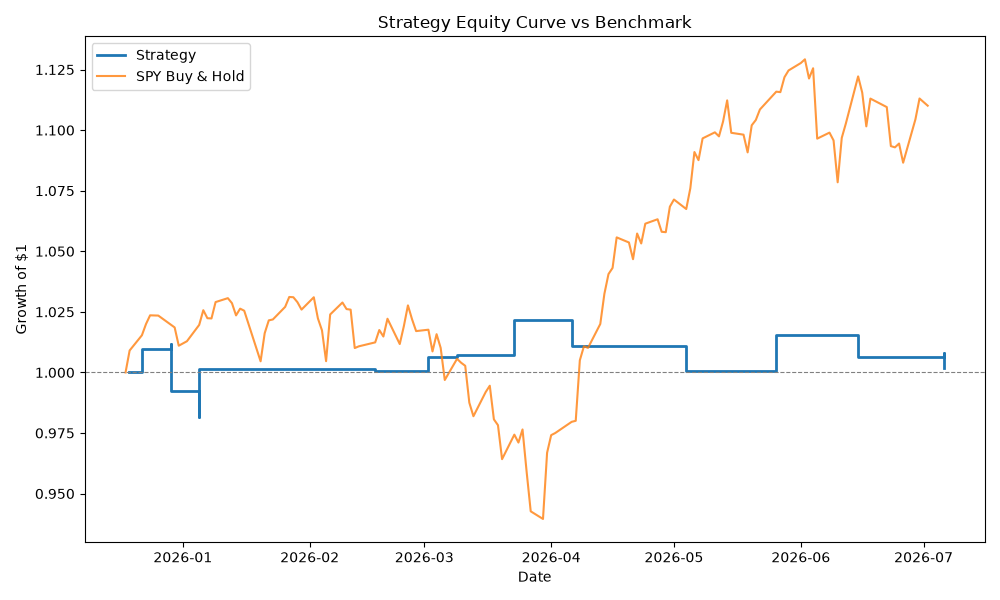
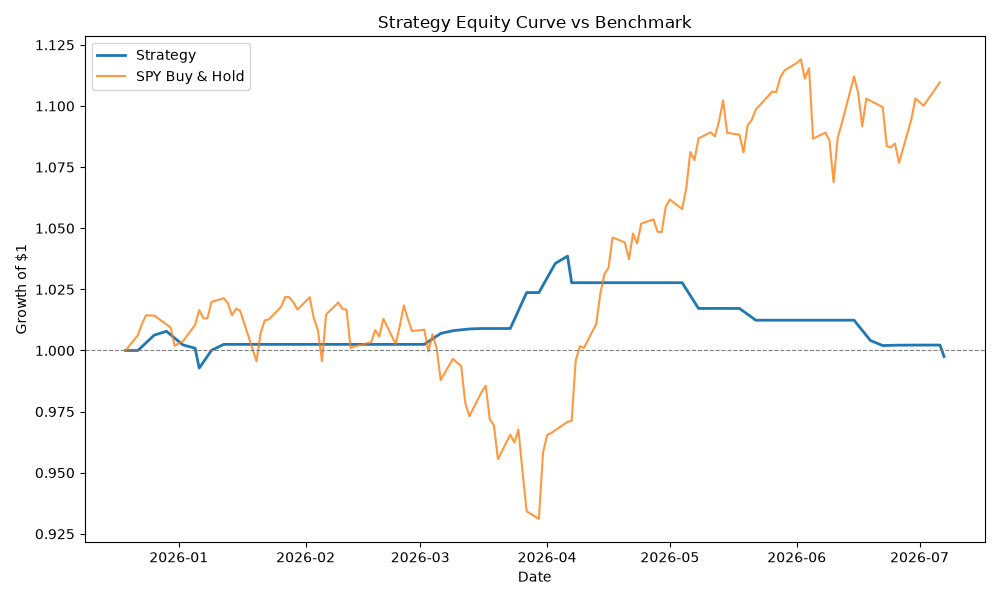
Fix portfolio-level accounting to sum overlapping trades instead of concatenating sequentially

diff --git a/backtest.py b/backtest.py
@@ -7,7 +7,6 @@ import yfinance as yf
 from dotenv import load_dotenv
 import os
 import math
-import statistics
 import pandas as pd
 import matplotlib
 matplotlib.use('Agg')
@@ -90,43 +89,41 @@ def calculate_trade_return(price_in, price_out, is_bullish, cost_pct):
         effective_out = price_out * (1 + cost_pct)
         return (effective_in - effective_out) / effective_in
 
-def compute_performance_metrics(trade_records, start_date):
-    sorted_trades = sorted(trade_records, key=lambda t: t['date'])
-    weighted_returns = [t['weighted_return'] for t in sorted_trades]
-    dates = [start_date] + [t['date'] for t in sorted_trades]
+def compute_performance_metrics(trade_records, start_date, end_date):
+    # daily, portfolio-level mark-to-market: trades held over the same days must
+    # add up on those days, not queue up one-after-another regardless of overlap.
+    # each trade's total weighted_return is spread evenly across the business days
+    # it was actually open, then every trade open on a given day contributes to
+    # that day's portfolio return.
+    calendar = pd.bdate_range(start=start_date, end=end_date)
+    daily_returns = pd.Series(0.0, index=calendar)
 
-    # compounded equity curve, needed for max drawdown and the plot
-    equity_curve = [1.0]
-    for r in weighted_returns:
-        equity_curve.append(equity_curve[-1] * (1 + r))
+    for t in trade_records:
+        held_days = calendar[(calendar > t['entry_date']) & (calendar <= t['exit_date'])]
+        if len(held_days) == 0:
+            continue
+        daily_returns.loc[held_days] += t['weighted_return'] / len(held_days)
 
-    peak = equity_curve[0]
-    max_drawdown = 0.0
-    for value in equity_curve:
-        peak = max(peak, value)
-        max_drawdown = min(max_drawdown, (value - peak) / peak)
+    equity_curve = (1 + daily_returns).cumprod()
+    running_peak = equity_curve.cummax()
+    max_drawdown = ((equity_curve - running_peak) / running_peak).min()
 
-    n = len(weighted_returns)
-    mean_return = statistics.mean(weighted_returns)
-    std_return = statistics.pstdev(weighted_returns) if n > 1 else 0.0
+    mean_return = daily_returns.mean()
+    std_return = daily_returns.std(ddof=0)
+    TRADING_DAYS_PER_YEAR = 252
+    sharpe = (mean_return / std_return) * math.sqrt(TRADING_DAYS_PER_YEAR) if std_return > 0 else 0.0
 
-    # annualize using the trade frequency actually observed over the backtest window
-    span_days = max((dates[-1] - start_date).days, 1)
-    periods_per_year = n * 365 / span_days
-
-    sharpe = (mean_return / std_return) * math.sqrt(periods_per_year) if std_return > 0 else 0.0
-
-    downside_returns = [r for r in weighted_returns if r < 0]
-    downside_std = statistics.pstdev(downside_returns) if len(downside_returns) > 1 else 0.0
-    sortino = (mean_return / downside_std) * math.sqrt(periods_per_year) if downside_std > 0 else 0.0
+    downside_returns = daily_returns[daily_returns < 0]
+    downside_std = downside_returns.std(ddof=0) if len(downside_returns) > 1 else 0.0
+    sortino = (mean_return / downside_std) * math.sqrt(TRADING_DAYS_PER_YEAR) if downside_std > 0 else 0.0
 
     return {
-        'dates': dates,
-        'equity_curve': equity_curve,
+        'dates': equity_curve.index,
+        'equity_curve': equity_curve.values,
         'sharpe': sharpe,
         'sortino': sortino,
         'max_drawdown': max_drawdown,
-        'total_return': equity_curve[-1] - 1.0,
+        'total_return': equity_curve.iloc[-1] - 1.0,
     }
 
 
@@ -141,7 +138,7 @@ def fetch_benchmark_equity(start_date, end_date, symbol='SPY'):
 
 def plot_equity_curve(portfolio_dates, portfolio_equity, benchmark_dates, benchmark_equity, benchmark_symbol, output_path='equity_curve.png'):
     plt.figure(figsize=(10, 6))
-    plt.step(portfolio_dates, portfolio_equity, where='post', label='Strategy', linewidth=2)
+    plt.plot(portfolio_dates, portfolio_equity, label='Strategy', linewidth=2)
     if benchmark_equity is not None:
         plt.plot(benchmark_dates, benchmark_equity, label=f'{benchmark_symbol} Buy & Hold', linewidth=1.5, alpha=0.8)
     plt.axhline(1.0, color='gray', linestyle='--', linewidth=0.8)
@@ -250,13 +247,14 @@ def run_backtest():
                 position_weight = min(RISK_PER_TRADE_PCT / stop_distance_pct, MAX_POSITION_WEIGHT)
 
                 # Get the next 7 days of price data
-                exit_date = actual_entry_date + timedelta(days=7)
-                holding_period_data = stock_data.loc[actual_entry_date + timedelta(days=1) : exit_date]
+                window_end_date = actual_entry_date + timedelta(days=7)
+                holding_period_data = stock_data.loc[actual_entry_date + timedelta(days=1) : window_end_date]
 
                 trade_return = 0.0
                 price_out = price_in
                 stopped_out = False
                 hit_target = False
+                trade_exit_date = actual_entry_date
 
                 # Check price day by day
                 for current_date, row in holding_period_data.iterrows():
@@ -265,11 +263,13 @@ def run_backtest():
                         price_out = stop_loss_price
                         trade_return = calculate_trade_return(price_in, price_out, is_bullish, TRANSACTION_COST_PCT)
                         stopped_out = True
+                        trade_exit_date = current_date
                         break # Exit the trade instantly!
                     elif is_bearish and row['High'] > stop_loss_price:
                         price_out = stop_loss_price
                         trade_return = calculate_trade_return(price_in, price_out, is_bullish, TRANSACTION_COST_PCT)
                         stopped_out = True
+                        trade_exit_date = current_date
                         break # Exit the trade instantly!
 
                     # then check if we hit the target
@@ -277,24 +277,28 @@ def run_backtest():
                         price_out = take_profit_price
                         trade_return = calculate_trade_return(price_in, price_out, is_bullish, TRANSACTION_COST_PCT)
                         hit_target = True
+                        trade_exit_date = current_date
                         break
                     elif is_bearish and row['Low'] < take_profit_price:
                         price_out = take_profit_price
                         trade_return = calculate_trade_return(price_in, price_out, is_bullish, TRANSACTION_COST_PCT)
                         hit_target = True
+                        trade_exit_date = current_date
                         break
 
                 # survived the week without hitting either level, close normally
                 if not stopped_out and not hit_target and not holding_period_data.empty:
                     price_out = float(holding_period_data.iloc[-1]['Close'])
                     trade_return = calculate_trade_return(price_in, price_out, is_bullish, TRANSACTION_COST_PCT)
+                    trade_exit_date = holding_period_data.index[-1]
 
                 total_trades += 1
                 if trade_return > 0:
                     winning_trades += 1
 
                 trade_records.append({
-                    'date': actual_entry_date,
+                    'entry_date': actual_entry_date,
+                    'exit_date': trade_exit_date,
                     'symbol': symbol,
                     'weighted_return': trade_return * position_weight,
                 })
@@ -317,7 +321,7 @@ def run_backtest():
     if total_trades > 0:
         print(f"Win Rate:            {(winning_trades/total_trades)*100:.1f}%")
 
-        metrics = compute_performance_metrics(trade_records, start_date)
+        metrics = compute_performance_metrics(trade_records, start_date, end_date)
         print(f"Cumulative PnL:      {metrics['total_return']*100:.2f}%")
         print(f"Sharpe Ratio:        {metrics['sharpe']:.2f}")
         print(f"Sortino Ratio:       {metrics['sortino']:.2f}")

diff --git a/README.md b/README.md
@@ -25,7 +25,7 @@ This project serves as a comprehensive demonstration of full-stack quantitative 
 * **Dynamic Volatility Risk Management:** Replaces static stop-loss assumptions with a volatility-adaptive framework built on the 14-day **Average True Range (ATR)**. Each position is bracketed by a stop-loss set at $2\times ATR_{14}$ below entry and a take-profit target at $3\times ATR_{14}$ above it, producing an asymmetric 1.5:1 reward-to-risk profile that automatically widens or tightens with the underlying asset's realized volatility.
 * **Volatility-Adjusted Position Sizing:** Capital allocated per trade is scaled inversely to each asset's ATR, so every position risks roughly the same fraction of capital if its stop is hit, regardless of how volatile the underlying instrument is (capped to prevent over-leveraging on unusually low-volatility names).
 * **Transaction Cost Modeling:** Applies realistic commission and slippage assumptions to both the entry and exit leg of every trade, so reported PnL reflects tradable, cost-adjusted returns rather than frictionless theoretical performance.
-* **Risk-Adjusted Performance Evaluation:** Beyond raw PnL, the backtester computes a compounded equity curve and reports **Sharpe Ratio**, **Sortino Ratio** (downside-only volatility), and **Maximum Drawdown**, annualized using the trade frequency actually observed over the test window. Results are benchmarked against a **SPY buy-and-hold** equity curve over the identical period to report alpha, rather than presenting the strategy's return in isolation.
+* **Risk-Adjusted Performance Evaluation:** Beyond raw PnL, the backtester marks the portfolio to market on every business day: each trade's return is spread across the business days it was actually held, and multiple trades open on the same day (across different stocks, or opposing signals on the same stock) are summed rather than queued up sequentially as if only one position could ever be open at a time. This daily series is compounded into an equity curve and used to report **Sharpe Ratio**, **Sortino Ratio** (downside-only volatility), and **Maximum Drawdown**, annualized off the standard 252 trading-day convention rather than raw trade count. Results are benchmarked against a **SPY buy-and-hold** equity curve over the identical period to report alpha, rather than presenting the strategy's return in isolation.
 
 ## System Architecture
 
@@ -96,38 +96,37 @@ python backtest.py
 ```
 DATE         SYM    SIGNAL                 PRICE IN   PRICE OUT  SIZE     RETURN
 =====================================================================================
[phone redacted]   AMZN   BEARISH (SHORT)        $233.06    $241.69    0.27   x  -3.91%  [STOPPED OUT]
 2026-03-01   AMZN   BULLISH (BUY)          $208.39    $213.49    0.18   x   2.24%
-2026-06-14   AMZN   BULLISH (BUY)          $246.02    $232.79    0.16   x  -5.57%
 2025-12-21   TSLA   BEARISH (SHORT)        $488.73    $459.64    0.14   x   5.76%
 2025-12-28   TSLA   BEARISH (SHORT)        $459.64    $451.67    0.13   x   1.54%
-2026-02-15   TSLA   BULLISH (BUY)          $410.63    $409.38    0.12   x  -0.50%
 2026-03-01   TSLA   BEARISH (SHORT)        $403.32    $398.68    0.15   x   0.95%
 2026-03-08   TSLA   BEARISH (SHORT)        $398.68    $395.56    0.15   x   0.58%
 2026-05-03   TSLA   BEARISH (SHORT)        $392.51    $422.39    0.13   x  -7.83%  [STOPPED OUT]
[phone redacted]   TSLA   BEARISH (SHORT)        $409.99    $426.01    0.12   x  -4.12%
 2025-12-28   AAPL   BULLISH (BUY)          $273.25    $266.76    0.34   x  -2.57%
-2026-01-04   AAPL   BEARISH (SHORT)        $266.76    $259.77    0.32   x   2.43%
[phone redacted]   AAPL   BULLISH (BUY)          $246.40    $261.59    0.24   x   5.95%  [TARGET HIT]
 2026-04-05   AAPL   BULLISH (BUY)          $258.62    $248.01    0.24   x  -4.29%  [STOPPED OUT]
 2026-06-14   AAPL   BULLISH (BUY)          $296.42    $297.01    0.19   x  -0.00%
-2025-12-28   MSFT   BULLISH (BUY)          $484.94    $471.19    0.35   x  -3.03%  [STOPPED OUT]
 2026-03-22   MSFT   BEARISH (SHORT)        $382.17    $360.88    0.27   x   5.38%  [TARGET HIT]
[phone redacted]   MSFT   BULLISH (BUY)          $399.76    $372.84    0.15   x  -6.92%  [STOPPED OUT]
[phone redacted]   MSFT   BULLISH (BUY)          $367.34    $368.57    0.15   x   0.13%
 2026-07-05   MSFT   BULLISH (BUY)          $386.74    $390.99    0.15   x   0.90%
-2025-12-21   GOOGL  BULLISH (BUY)          $309.38    $313.15    0.20   x   1.02%
 2026-01-04   GOOGL  BULLISH (BUY)          $316.13    $331.43    0.26   x   4.63%
-2026-05-24   GOOGL  BEARISH (SHORT)        $388.65    $359.62    0.20   x   7.28%  [TARGET HIT]
 2026-07-05   GOOGL  BULLISH (BUY)          $366.46    $352.51    0.15   x  -4.00%
 =====================================================================================
-Total Trades Taken:  20
-Winning Trades:      11
-Win Rate:            55.0%
-Cumulative PnL:      0.18%
-Sharpe Ratio:        0.09
-Sortino Ratio:       0.18
-Max Drawdown:        -2.98%
-Benchmark (SPY B&H): 11.01%
-Alpha vs Benchmark:  -10.83%
+Total Trades Taken:  18
+Winning Trades:      10
+Win Rate:            55.6%
+Cumulative PnL:      -0.25%
+Sharpe Ratio:        -0.15
+Sortino Ratio:       -0.11
+Max Drawdown:        -3.96%
+Benchmark (SPY B&H): 10.97%
+Alpha vs Benchmark:  -11.22%
 Equity curve saved to equity_curve.png
 ```
 
 ![Strategy equity curve vs SPY buy-and-hold benchmark](equity_curve.png)
 
-*Note: with only 20 trades per run, the Sharpe/Sortino/drawdown figures above are illustrative of the evaluation methodology, not statistically significant estimates of the strategy's true risk-adjusted performance — a much larger trade sample would be needed for that. Over this particular window the strategy underperformed SPY buy-and-hold (negative alpha), which the backtester reports directly rather than omitting. The focus of this project is the engineering of the risk and evaluation pipeline itself (ATR-adaptive stops/targets, volatility-scaled position sizing, cost-adjusted PnL, and honest benchmark-relative reporting), not a curve-fit claim of profitability.*
+*Note: with only 18 trades per run, the Sharpe/Sortino/drawdown figures above are illustrative of the evaluation methodology, not statistically significant estimates of the strategy's true risk-adjusted performance — a much larger trade sample would be needed for that. Over this particular window the strategy underperformed SPY buy-and-hold (negative alpha), which the backtester reports directly rather than omitting. The focus of this project is the engineering of the risk and evaluation pipeline itself (ATR-adaptive stops/targets, volatility-scaled position sizing, cost-adjusted PnL, daily portfolio-level mark-to-market accounting for overlapping positions, and honest benchmark-relative reporting), not a curve-fit claim of profitability.*